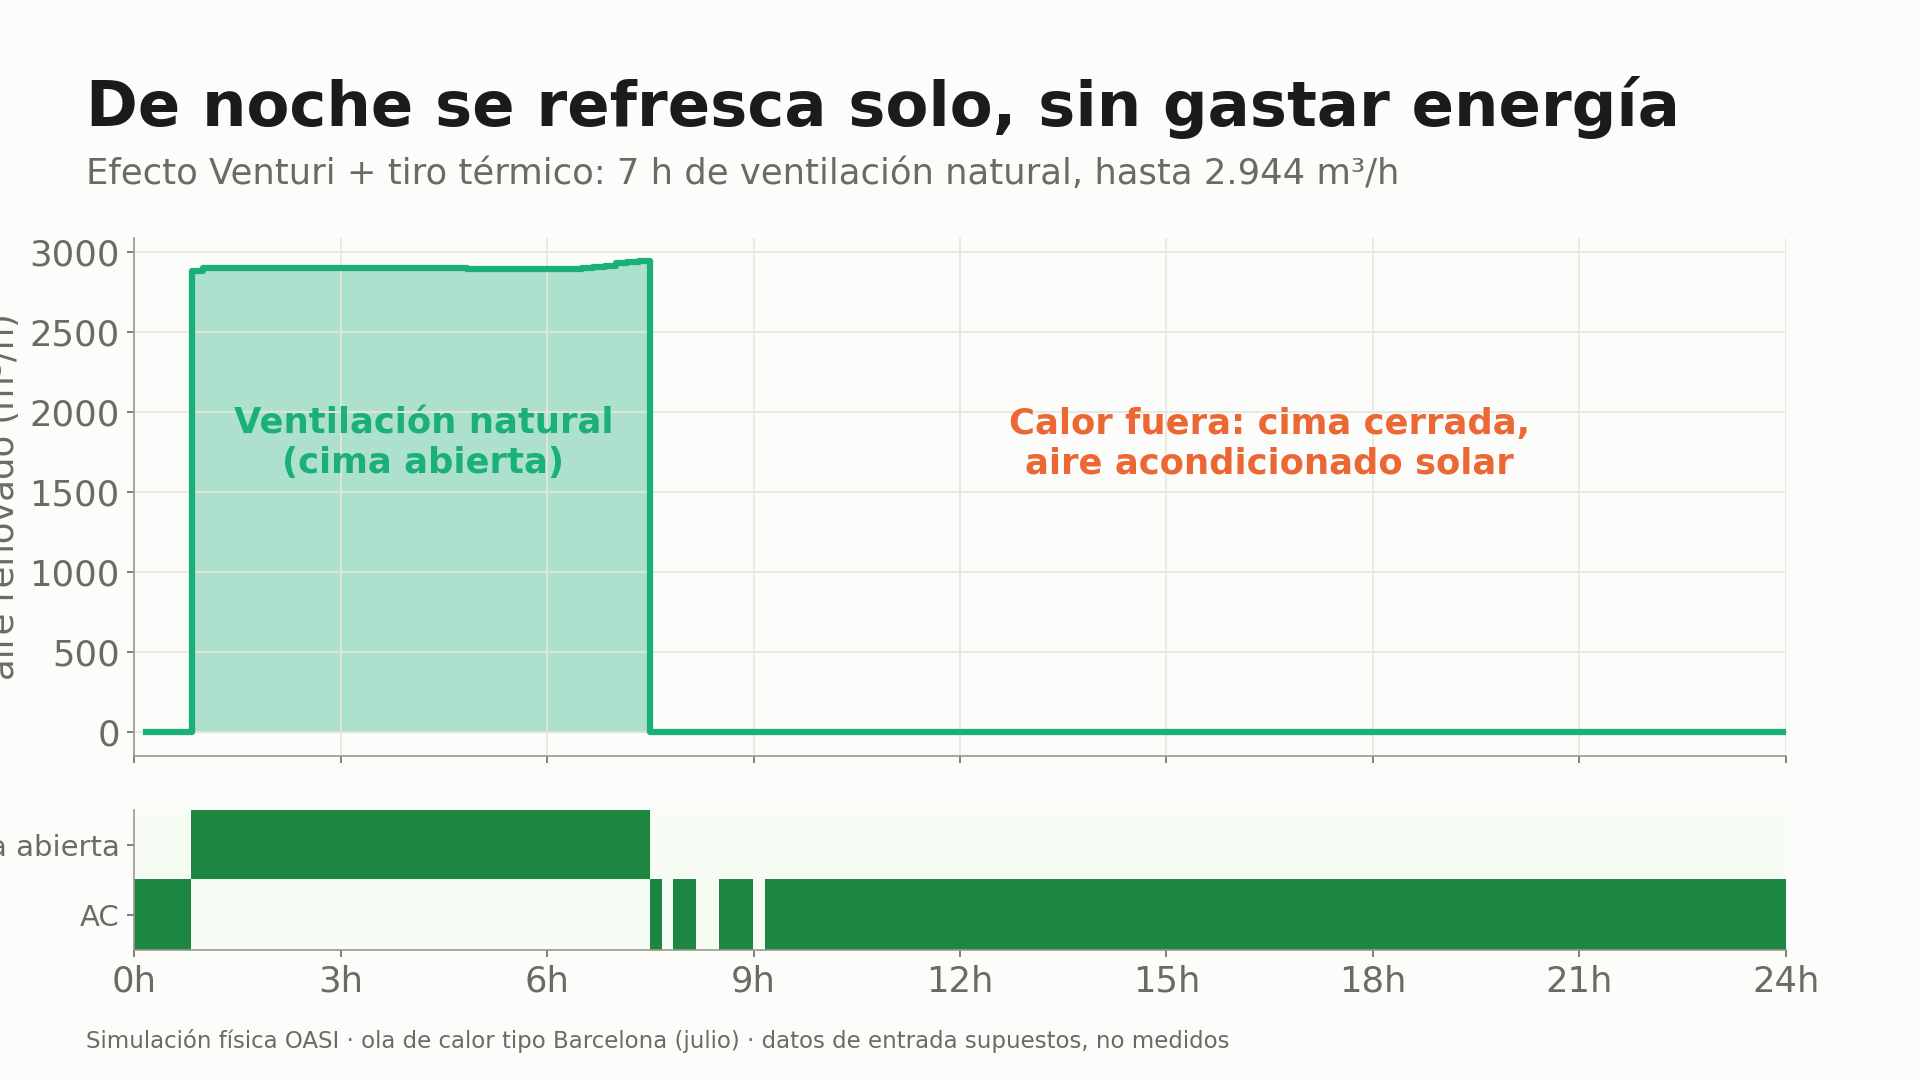
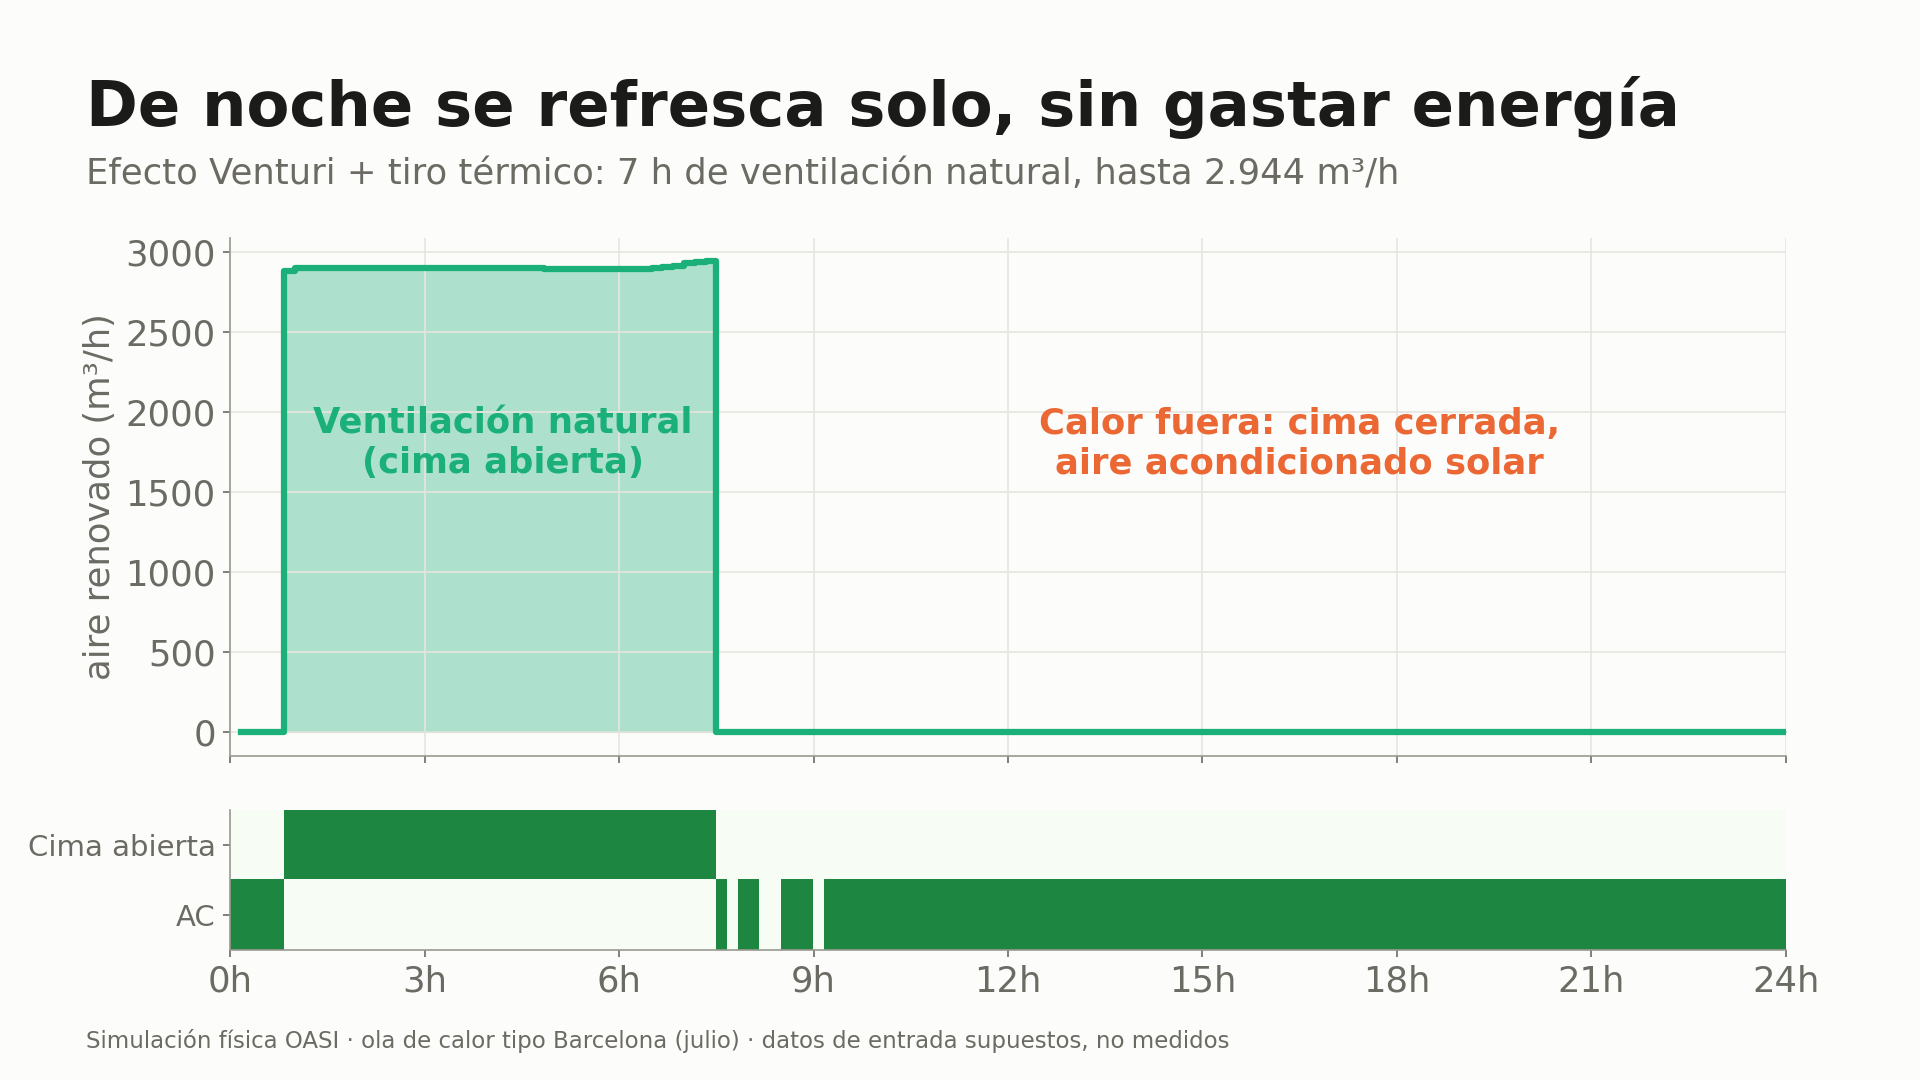
o3: diapositivas de métricas en catalán (--idioma ca -> pitch/diapositivas_ca/) (#29)

diff --git a/scripts/diapositivas_metricas.py b/scripts/diapositivas_metricas.py
@@ -23,7 +23,56 @@ from graficos_metricas import C, simular_dia  # noqa: E402
 from sim import fisica_pabellon as fp  # noqa: E402
 from sim.metricas import PASO_S, UMBRAL_RIESGO, dia, escenario  # noqa: E402
 
-SALIDA = RAIZ / "pitch" / "diapositivas"
+IDIOMA = "ca" if "--idioma" in sys.argv and sys.argv[sys.argv.index("--idioma") + 1] == "ca" else "es"
+SALIDA = RAIZ / "pitch" / ("diapositivas_ca" if IDIOMA == "ca" else "diapositivas")
+
+# Traducción al catalán: se aplica a TODOS los textos de la figura justo antes de guardarla
+# (titulares, ejes, leyendas, etiquetas y pie). Orden: frases largas primero, palabras sueltas al final.
+CA = [
+    ("Simulación física OASI · ola de calor tipo Barcelona (julio) · datos de entrada supuestos, no medidos",
+     "Simulació física OASI · onada de calor tipus Barcelona (juliol) · dades d'entrada suposades, no mesurades"),
+    ("Pabellón Venturi 6 × 2,4 m en una parada de bus · día tipo de ola de calor (máx. 36 °C)",
+     "Pavelló Venturi 6 × 2,4 m en una parada d'autobús · dia tipus d'onada de calor (màx. 36 °C)"),
+    ("más fresco que la calle\nen la hora punta", "més fresc que al carrer\nen l'hora punta"),
+    ("de calor peligroso evitadas\ncada día (índice > 32 °C)", "de calor perillosa evitades\ncada dia (índex > 32 °C)"),
+    ("de la energía sale\nde sus placas solares", "de l'energia surt\nde les seves plaques solars"),
+    ("de luz de la red al día\n(todo con sol y batería)", "de llum de la xarxa al dia\n(tot amb sol i bateria)"),
+    ("de autonomía nocturna\ncon batería", "d'autonomia nocturna\namb bateria"),
+    ("solares al día", "solars al dia"),
+    ("OASI en cifras", "OASI en xifres"),
+    ("Temperatura a lo largo del día · el mismo pabellón cerrado y sin control llegaría a más de 50 °C",
+     "Temperatura al llarg del dia · el mateix pavelló tancat i sense control arribaria a més de 50 °C"),
+    (" °C menos que en la calle", " °C menys que al carrer"), ("Dentro, ", "A dins, "),
+    ("Cerrado sin control", "Tancat sense control"),
+    (" horas de calor peligroso evitadas al día", " hores de calor perillosa evitades al dia"),
+    ("Horas con índice de calor NOAA > ", "Hores amb índex de calor NOAA > "), ("(temperatura + humedad)", "(temperatura + humitat)"),
+    ("índice de calor (°C)", "índex de calor (°C)"), ("horas de riesgo / día", "hores de risc / dia"),
+    (" % solar: el refugio se paga su propio aire", " % solar: el refugi es paga el seu propi aire"),
+    (" kWh de placas al día · la batería cubre la noche · ", " kWh de plaques al dia · la bateria cobreix la nit · "),
+    ("De noche se refresca solo, sin gastar energía", "De nit es refresca sol, sense gastar energia"),
+    ("Efecto Venturi + tiro térmico: ", "Efecte Venturi + tir tèrmic: "), (" h de ventilación natural, hasta ", " h de ventilació natural, fins a "),
+    ("aire renovado (m³/h)", "aire renovat (m³/h)"),
+    ("Ventilación natural\n(cima abierta)", "Ventilació natural\n(cim obert)"),
+    ("Calor fuera: cima cerrada,\naire acondicionado solar", "Calor a fora: cim tancat,\naire condicionat solar"),
+    ("Cima abierta", "Cim obert"),
+    ("Crece con la ciudad: de 4 a 12 m de largo", "Creix amb la ciutat: de 4 a 12 m de llargada"),
+    ("y de 2,4 a 4,8 m de ancho · cada tamaño simulado con la misma física", "i de 2,4 a 4,8 m d'amplada · cada mida simulada amb la mateixa física"),
+    ("Energía solar (kWh/día)", "Energia solar (kWh/dia)"), ("Autonomía de batería (h)", "Autonomia de bateria (h)"),
+    ("Aguanta la ola de calor entera", "Aguanta tota l'onada de calor"),
+    (" % solar · al final la batería toca la reserva:", " % solar · al final la bateria toca la reserva:"),
+    (" €/día de red", " €/dia de xarxa"), (" € de red", " € de xarxa"),
+    ("Placas solares", "Plaques solars"), ("Consumo", "Consum"), ("batería", "bateria"), ("Batería", "Bateria"),
+    ("Plazas", "Places"), ("largo (m)", "llargada (m)"), ("ancho ", "amplada "), ("riesgo", "risc"), ("Calle", "Carrer"),
+    ("días", "dies"), ("día", "dia"), ("cada día", "cada dia"),
+]
+
+
+def t(texto: str) -> str:
+    if IDIOMA != "ca" or not texto:
+        return texto
+    for es_, ca_ in CA:
+        texto = texto.replace(es_.replace("\\n", "\n"), ca_.replace("\\n", "\n"))
+    return texto
 FONDO, TINTA, SUAVE = "#fcfcfb", "#1b1b19", "#6b6a63"
 def es(x, d=1):
     """Número con coma decimal y punto de miles (formato español)."""
@@ -47,6 +96,9 @@ def lienzo(titular: str, sub: str = ""):
 
 
 def guardar(fig, nombre):
+    import matplotlib.text as mtext
+    for txt in fig.findobj(mtext.Text):          # traduce todo lo escrito en la figura
+        txt.set_text(t(txt.get_text()))
     fig.savefig(SALIDA / f"{nombre}.png", facecolor=FONDO)
     plt.close(fig)
 
@@ -102,7 +154,7 @@ def d3_riesgo(D, R):
     ax.text(0.3, UMBRAL_RIESGO + 0.5, "riesgo", color=C["rojo"], fontsize=15, fontweight="bold")
     ax.set_ylabel("índice de calor (°C)"); horas(ax); ax.legend(frameon=False, loc="upper left")
     bx = fig.add_axes([0.70, 0.12, 0.26, 0.66])
-    b = bx.bar(["Calle", "OASI"], [hc, hi], color=[C["naranja"], C["azul"]], width=0.62)
+    b = bx.bar([t("Calle"), "OASI"], [hc, hi], color=[C["naranja"], C["azul"]], width=0.62)
     bx.bar_label(b, labels=[f"{hc:.0f} h", f"{hi:.0f} h"], fontsize=24, fontweight="bold", padding=6)
     bx.set_ylim(0, max(hc, 1) * 1.25); bx.set_yticks([]); bx.grid(False); bx.spines["left"].set_visible(False)
     bx.set_title("horas de riesgo / día", color=SUAVE, fontsize=15)
@@ -129,15 +181,15 @@ def d5_ventilacion(D):
     q = D["q"]; h_v = (q > 0).sum() * PASO_S / 3600
     fig = lienzo("De noche se refresca solo, sin gastar energía",
                  f"Efecto Venturi + tiro térmico: {h_v:.0f} h de ventilación natural, hasta {es(q.max(), 0)} m³/h")
-    ax = fig.add_axes([0.07, 0.30, 0.86, 0.48])
+    ax = fig.add_axes([0.12, 0.30, 0.81, 0.48])
     ax.fill_between(D["h"], 0, q, color=C["aqua"], alpha=0.35, step="pre"); ax.plot(D["h"], q, color=C["aqua"], lw=3, drawstyle="steps-pre")
     ax.set_ylabel("aire renovado (m³/h)"); horas(ax); ax.set_xticklabels([])
     ax.text(4.2, q.max() * 0.55, "Ventilación natural\n(cima abierta)", color=C["aqua"], fontweight="bold", ha="center", fontsize=17)
     ax.text(16.5, q.max() * 0.55, "Calor fuera: cima cerrada,\naire acondicionado solar", color=C["naranja"], fontweight="bold", ha="center", fontsize=17)
-    bx = fig.add_axes([0.07, 0.12, 0.86, 0.13])
+    bx = fig.add_axes([0.12, 0.12, 0.81, 0.13])
     est = np.vstack([D["apertura"] > 0, D["ac"]]).astype(float)
     bx.imshow(est, aspect="auto", extent=(0, 24, 1.5, -0.5), cmap="Greens", vmin=0, vmax=1.3, interpolation="nearest")
-    bx.set_yticks([0, 1]); bx.set_yticklabels(["Cima abierta", "AC"], fontsize=14); bx.grid(False); horas(bx)
+    bx.set_yticks([0, 1]); bx.set_yticklabels([t("Cima abierta"), "AC"], fontsize=14); bx.grid(False); horas(bx)
     guardar(fig, "05_ventilacion_natural")
 
 
